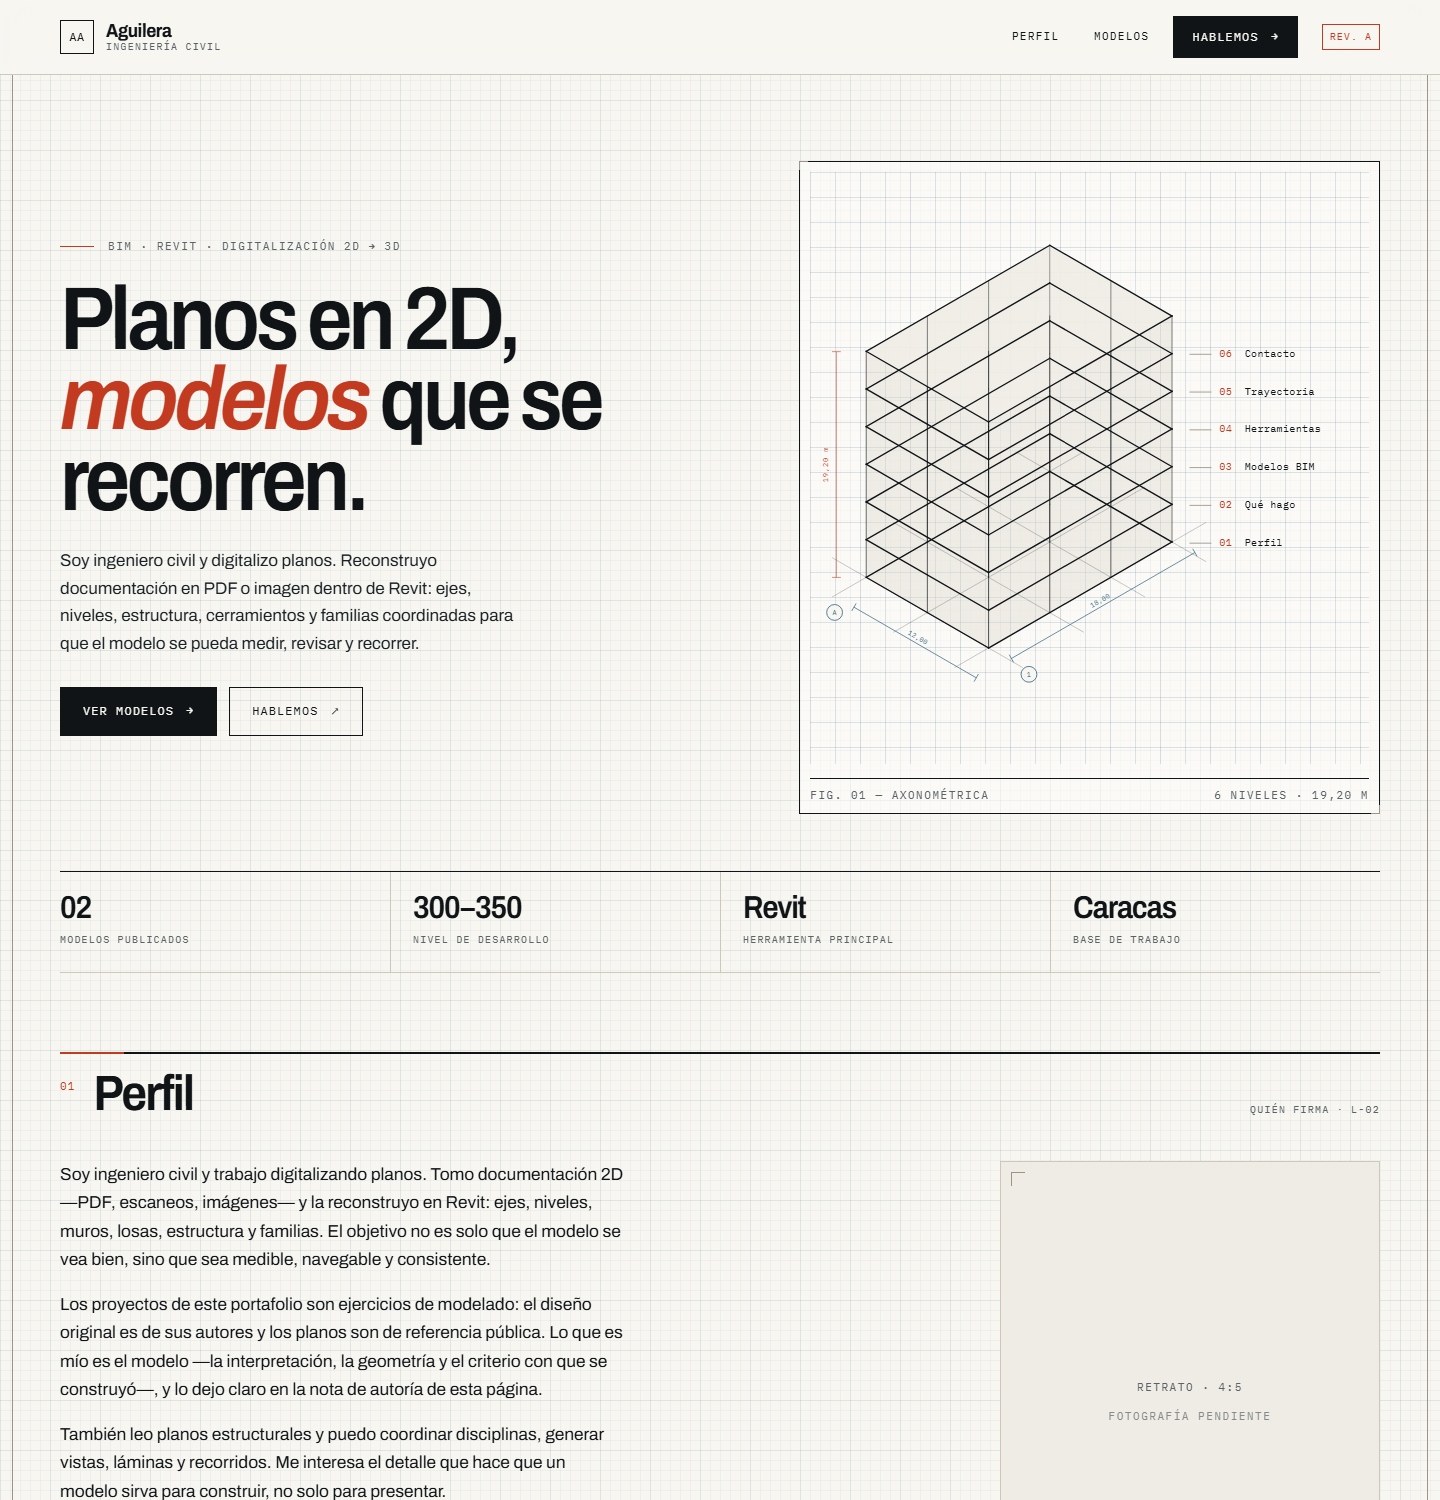
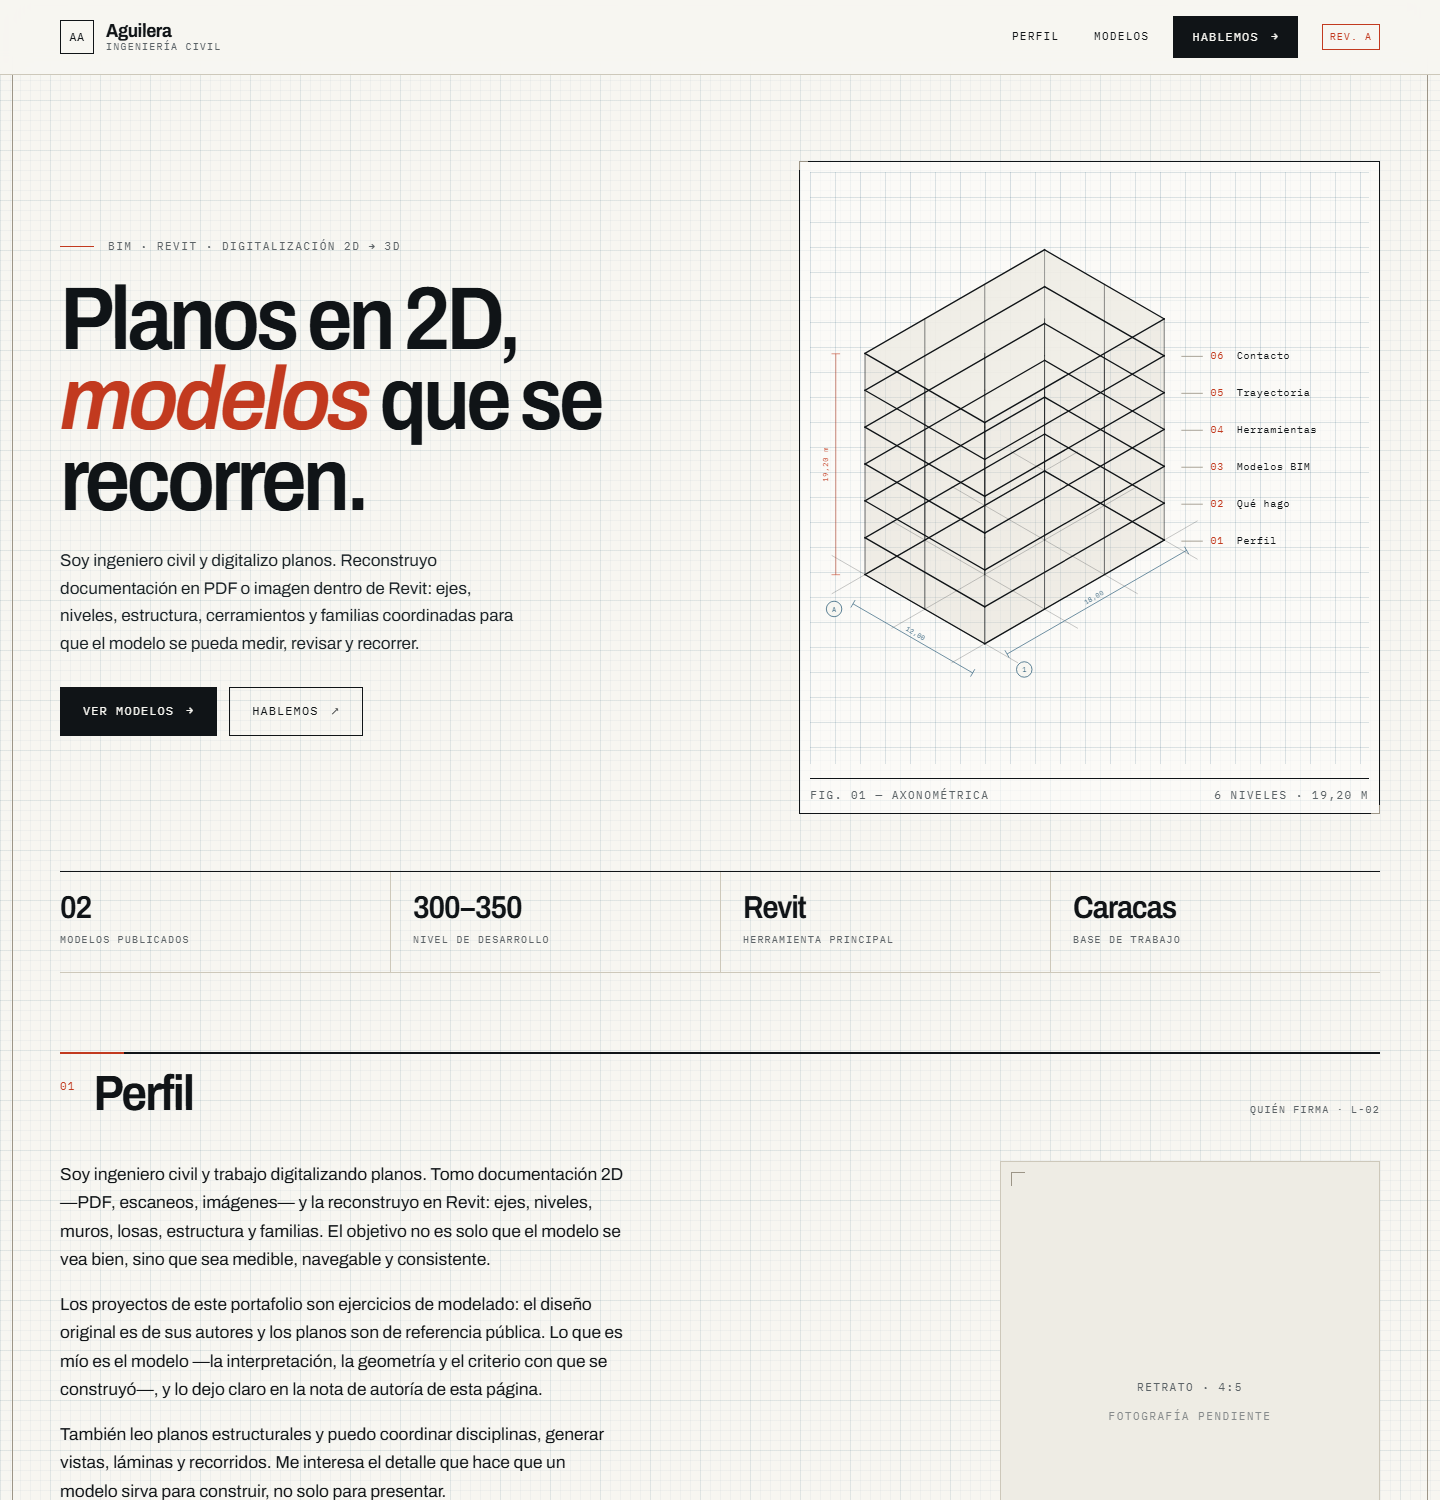
Ajustar etiquetas de niveles de la axonometrica

Changed region(s): [[0.5938, 0.1533, 0.9062, 0.46]]

diff --git a/src/lib/iso.ts b/src/lib/iso.ts
@@ -96,7 +96,7 @@ export function generarEstructura(opciones: Opciones = {}): Dibujo {
   medir(X + ext, Y + ext, 0);
 
   const padL = 64;
-  const padR = etiquetas.length > 0 ? 224 : 74;
+  const padR = etiquetas.length > 0 ? 238 : 74;
   const padT = 30;
   const padB = 34;
   const dx = padL - minX;

diff --git a/src/styles/global.css b/src/styles/global.css
@@ -539,8 +539,8 @@ ol {
 
 .iso-nivel__texto {
   font-family: var(--mono);
-  font-size: 11px;
-  letter-spacing: 0.06em;
+  font-size: 12px;
+  letter-spacing: 0.05em;
   fill: var(--tinta);
   transition: fill 0.18s ease;
 }
